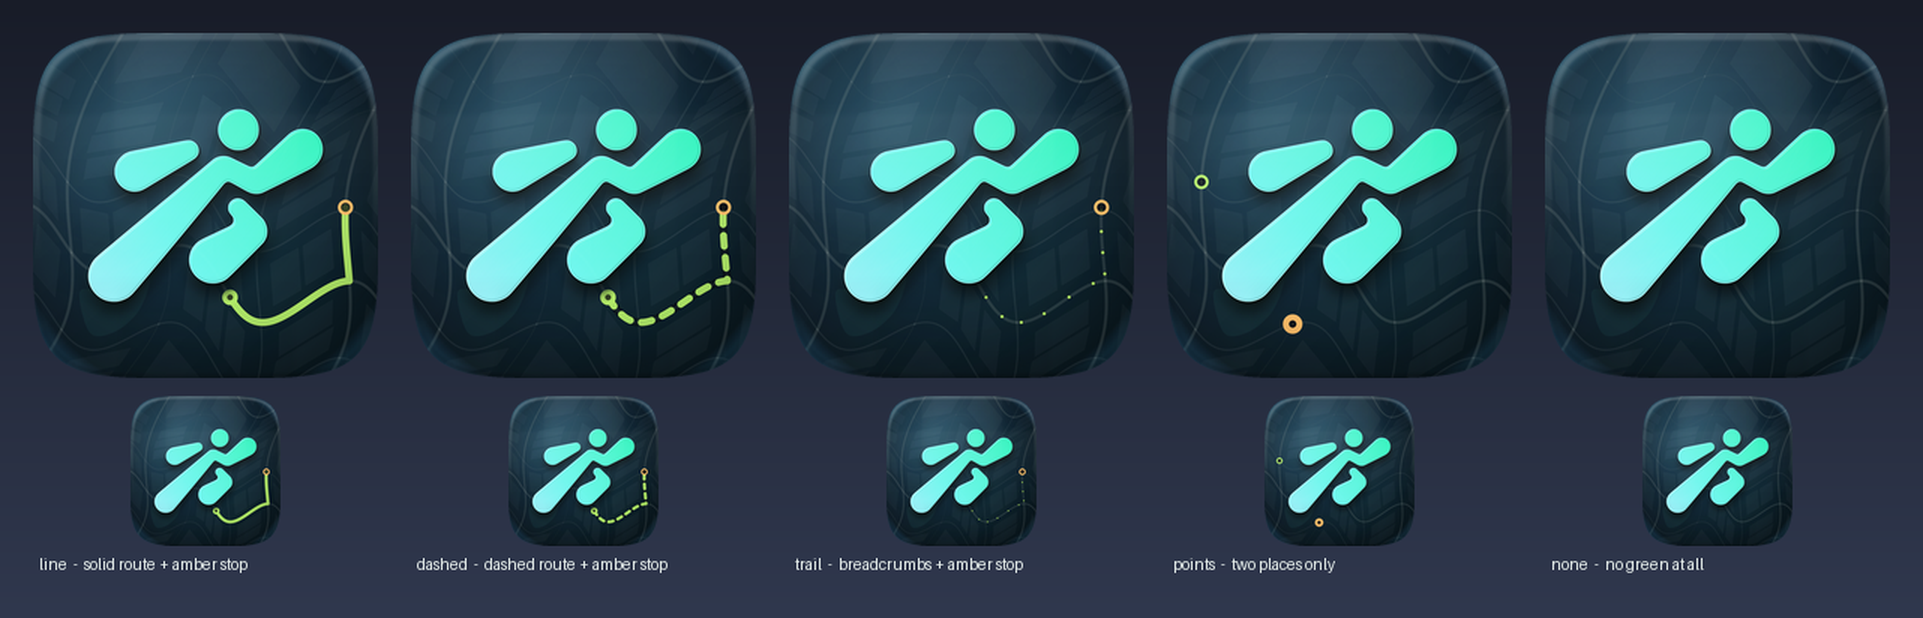
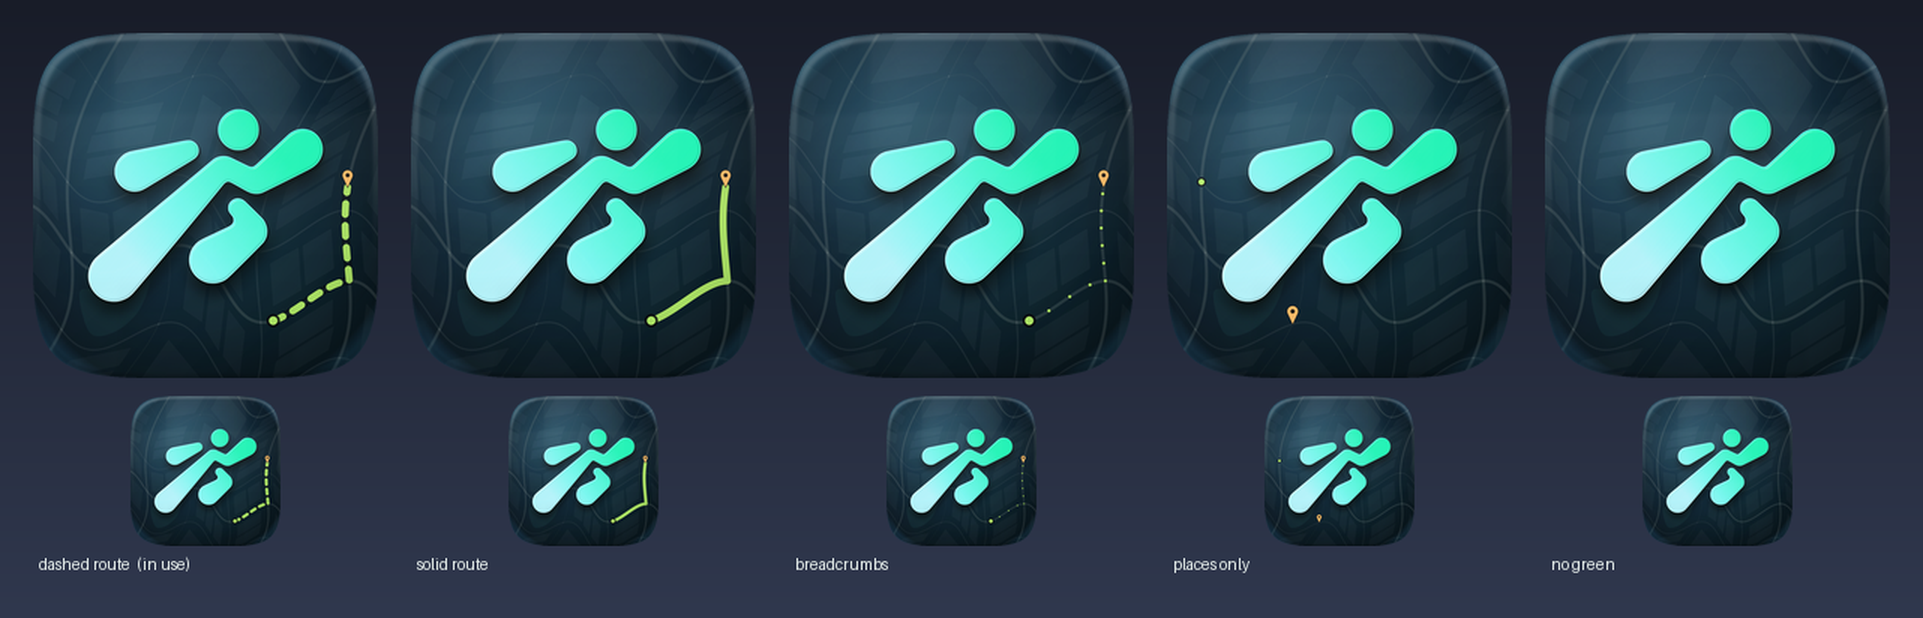
Draw the route's ends the way a map does
The start and the destination were both hollow rings, which reads as two
anonymous markers rather than a journey. Now the start is a solid disc in a
dark collar and the destination is a pin whose point sits on the place, with
its sides computed as the true tangents from the tip to the head so they meet
the circle smoothly at any size.

Markers moved into icon space. Drawn in map space they inherited the map's
rotation, and a leaning pin reads as a mistake.

The route is also shorter, so both ends clear the mark. The start used to sit
underneath the figure, where the clearance mask hid it and the path appeared
to begin from nowhere.

diff --git a/Tools/IconForge/Sources/IconForgeCore/CityMap.swift b/Tools/IconForge/Sources/IconForgeCore/CityMap.swift
@@ -194,7 +194,7 @@ public enum CityMap {
             .translatedBy(x: -span / 2, y: -span / 2)
         // Kept outside the mark's bounding box. A bright green line running alongside the mark
         // collapses the contrast at that edge, which is the one thing the icon cannot afford.
-        let corner = CGPoint(x: size * 0.80, y: size * 0.185).applying(placement.inverted())
+        let corner = CGPoint(x: size * 0.775, y: size * 0.20).applying(placement.inverted())
         func nearest(_ values: [Double], to target: Double) -> Double {
             values.min { abs($0 - target) < abs($1 - target) } ?? target
         }
@@ -202,7 +202,9 @@ public enum CityMap {
         let routeColumn = nearest(columns, to: corner.x)
 
         var route: [CGPoint] = []
-        let approach = span * 0.20, departure = span * 0.13
+        // Short enough that both ends stay clear of the mark: an origin dot hidden under the
+        // figure is worse than no origin dot, because the route then just fades in from nowhere.
+        let approach = span * 0.115, departure = span * 0.165
         var u = routeColumn - approach
         while u <= routeColumn { route.append(warp(CGPoint(x: u, y: routeRow))); u += span * 0.006 }
         var v = routeRow
@@ -279,33 +281,44 @@ public enum CityMap {
     /// green stop can end up touching the mark's outline, which collapses the contrast right there
     /// and makes the two shapes bleed into each other. Clipping is also the truthful thing: the
     /// mark sits above the map, so the route should pass under it.
+    /// A map pin: a round head with its sides drawn down to a point, and the point is the place.
+    ///
+    /// The tangent from the tip to the head is computed rather than faked with a triangle, so the
+    /// sides meet the circle smoothly at any size.
+    static func pinPath(tip: CGPoint, radius: Double) -> CGPath {
+        let reach = radius * 2.35                                  // tip to the centre of the head
+        let head = CGPoint(x: tip.x, y: tip.y + reach)             // icon space: y grows upward
+        let theta = acos(min(1, radius / reach))                   // tip-to-centre line to tangent
+        let left = atan2(-cos(theta), -sin(theta))
+        let right = atan2(-cos(theta), sin(theta))
+
+        let path = CGMutablePath()
+        path.move(to: tip)
+        path.addLine(to: CGPoint(x: head.x + radius * cos(left), y: head.y + radius * sin(left)))
+        // Clockwise from the left tangent takes the long way round, over the top of the head.
+        path.addArc(center: head, radius: radius, startAngle: left, endAngle: right, clockwise: true)
+        path.addLine(to: tip)
+        path.closeSubpath()
+        return path
+    }
+
     public static func drawRoute(_ plan: CityPlan, in ctx: CGContext, palette: Palette,
                                  scale: Double, ink: Ink = Ink(), clearance: CGImage? = nil) {
         guard ink.route > 0, ink.style != .none else { return }
-        ctx.saveGState()
-        if let clearance {
-            ctx.clip(to: CGRect(x: 0, y: 0, width: ctx.width, height: ctx.height), mask: clearance)
+        let bounds = CGRect(x: 0, y: 0, width: Double(ctx.width), height: Double(ctx.height))
+        let canvas = bounds.insetBy(dx: 22 * scale, dy: 22 * scale)
+
+        func applyClip(_ context: CGContext) {
+            if let clearance { context.clip(to: bounds, mask: clearance) }
         }
-        let canvas = CGRect(x: 0, y: 0, width: Double(ctx.width), height: Double(ctx.height))
-            .insetBy(dx: 22 * scale, dy: 22 * scale)
+
+        // MARK: the path itself, drawn in the map's own space so it follows the streets
+
+        ctx.saveGState()
+        applyClip(ctx)
         ctx.concatenate(plan.transform)
         ctx.setLineCap(.round)
         ctx.setLineJoin(.round)
-
-        func visible(_ point: CGPoint) -> Bool { canvas.contains(point.applying(plan.transform)) }
-
-        /// A ring rather than a blob, so a marker reads as a place and not a dot of colour.
-        func marker(at point: CGPoint, radius: Double, colour: Swatch, filled: Bool) {
-            guard visible(point) else { return }
-            let r = radius * scale
-            ctx.addEllipse(in: CGRect(x: point.x - r, y: point.y - r, width: r * 2, height: r * 2))
-            ctx.setFillColor(palette.void.cg(0.75 * ink.intensity))
-            ctx.fillPath()
-            ctx.addEllipse(in: CGRect(x: point.x - r, y: point.y - r, width: r * 2, height: r * 2))
-            ctx.setStrokeColor(colour.cg(min(1, ink.route * 1.5) * ink.intensity))
-            ctx.setLineWidth(r * (filled ? 0.9 : 0.52))
-            ctx.strokePath()
-        }
 
         func stroke(_ points: [CGPoint], colour: Swatch, width: Double, dashed: Bool = false) {
             ctx.addPath(Geometry.path(points))
@@ -321,44 +334,15 @@ public enum CityMap {
             ctx.setLineDash(phase: 0, lengths: [])
         }
 
-        /// Junctions out toward the edges, where the mark is not.
-        func outerJunctions(_ wanted: Int) -> [CGPoint] {
-            let centre = CGPoint(x: Double(ctx.width) / 2, y: Double(ctx.height) / 2)
-            let reach = Double(ctx.width)
-            let candidates = plan.junctions.filter { point in
-                let p = point.applying(plan.transform)
-                guard canvas.contains(p) else { return false }
-                let d = ((p.x - centre.x) * (p.x - centre.x) + (p.y - centre.y) * (p.y - centre.y)).squareRoot()
-                return d > reach * 0.30 && d < reach * 0.46
-            }
-            guard candidates.count > wanted else { return candidates }
-            // Spread across the list rather than taking the first few, which would cluster.
-            let step = candidates.count / wanted
-            return (0..<wanted).map { candidates[$0 * step] }
-        }
-
         switch ink.style {
         case .line, .dashed:
             stroke(plan.route, colour: palette.aurora, width: ink.routeWidth, dashed: ink.style == .dashed)
-            marker(at: plan.routeStops[0], radius: 16, colour: palette.aurora, filled: true)
-            // The far end in Amber: the one point on the map worth a glance.
-            marker(at: plan.routeStops[2], radius: 18, colour: palette.amber, filled: false)
-
-        case .points:
-            // Two places, large enough to read: one of yours, one worth a glance.
-            let places = outerJunctions(2)
-            for (index, place) in places.enumerated() {
-                marker(at: place, radius: index == 0 ? 20 : 17,
-                       colour: index == 0 ? palette.amber : palette.aurora, filled: index == 0)
-            }
-
         case .trail:
-            // Breadcrumbs along the same route. Dots survive being shrunk better than a thin line,
-            // because each one stays a shape instead of thinning away to nothing.
+            // Breadcrumbs survive being shrunk better than a thin line: each one stays a shape
+            // instead of thinning away to nothing.
             let spacing = max(1, plan.route.count / 9)
             for index in stride(from: 0, to: plan.route.count, by: spacing) {
                 let point = plan.route[index]
-                guard visible(point) else { continue }
                 let r = 7.0 * scale
                 ctx.addEllipse(in: CGRect(x: point.x - r, y: point.y - r, width: r * 2, height: r * 2))
                 ctx.setFillColor(palette.void.cg(0.6 * ink.intensity))
@@ -369,8 +353,73 @@ public enum CityMap {
                 ctx.setFillColor(palette.aurora.cg(ink.route * ink.intensity))
                 ctx.fillPath()
             }
-            marker(at: plan.routeStops[2], radius: 18, colour: palette.amber, filled: false)
+        case .points, .none:
+            break
+        }
+        ctx.restoreGState()
 
+        // MARK: the ends, drawn in icon space
+        //
+        // A pin has an up. Drawing it in map space would tilt it with the map's rotation, and a
+        // leaning pin reads as a mistake — on a real map the pins stay upright however the map sits.
+
+        ctx.saveGState()
+        applyClip(ctx)
+
+        /// Where you are: a solid disc inside a dark collar, the way every map draws it.
+        func origin(at point: CGPoint, radius: Double) {
+            let r = radius * scale
+            ctx.addEllipse(in: CGRect(x: point.x - r, y: point.y - r, width: r * 2, height: r * 2))
+            ctx.setFillColor(palette.void.cg(0.85 * ink.intensity))
+            ctx.fillPath()
+            let core = r * 0.64
+            ctx.addEllipse(in: CGRect(x: point.x - core, y: point.y - core, width: core * 2, height: core * 2))
+            ctx.setFillColor(palette.aurora.cg(min(1, ink.route * 1.4) * ink.intensity))
+            ctx.fillPath()
+        }
+
+        /// Where you're going: a pin, with its point on the place and a hole through the head.
+        func destination(at point: CGPoint, radius: Double, colour: Swatch) {
+            let r = radius * scale
+            let pin = pinPath(tip: point, radius: r)
+            ctx.addPath(pin)
+            ctx.setStrokeColor(palette.void.cg(0.8 * ink.intensity))
+            ctx.setLineWidth(4 * scale)
+            ctx.setLineJoin(.round)
+            ctx.strokePath()
+            ctx.addPath(pin)
+            ctx.setFillColor(colour.cg(min(1, ink.route * 1.4) * ink.intensity))
+            ctx.fillPath()
+            let hole = r * 0.40
+            let head = CGPoint(x: point.x, y: point.y + r * 2.35)
+            ctx.addEllipse(in: CGRect(x: head.x - hole, y: head.y - hole, width: hole * 2, height: hole * 2))
+            ctx.setFillColor(palette.void.cg(0.9 * ink.intensity))
+            ctx.fillPath()
+        }
+
+        func placed(_ point: CGPoint) -> CGPoint? {
+            let p = point.applying(plan.transform)
+            return canvas.contains(p) ? p : nil
+        }
+
+        switch ink.style {
+        case .line, .dashed, .trail:
+            // Wider than the path itself, or the dot merges into the first dash and the route
+            // looks like it simply starts nowhere.
+            if let from = placed(plan.routeStops[0]) { origin(at: from, radius: 20) }
+            // A pin stands above its point, so it needs headroom the dot does not.
+            if let to = placed(plan.routeStops[2]), to.y < canvas.maxY - 44 * scale {
+                destination(at: to, radius: 15, colour: palette.amber)
+            }
+        case .points:
+            let centre = CGPoint(x: bounds.midX, y: bounds.midY)
+            let reach = Double(ctx.width)
+            let outer = plan.junctions.compactMap(placed).filter { p in
+                let d = ((p.x - centre.x) * (p.x - centre.x) + (p.y - centre.y) * (p.y - centre.y)).squareRoot()
+                return d > reach * 0.30 && d < reach * 0.46 && p.y < canvas.maxY - 44 * scale
+            }
+            if let first = outer.first { destination(at: first, radius: 16, colour: palette.amber) }
+            if outer.count > 1 { origin(at: outer[outer.count / 2], radius: 14) }
         case .none:
             break
         }

diff --git a/SETUP.md b/SETUP.md
@@ -138,8 +138,11 @@ clips the green channel, flattening the whole mark to one tone no matter how the
 The ramp runs *along* the mark's diagonal, not across it — across shades each limb over its width,
 which reads as a tube.
 
-Green in the map is a route with stops, not a glow: `CityMap.drawRoute`. `--route-style` picks how
-it's drawn — `dashed` (the default), `line`, `trail`, `points` or `none` — and the far stop is Amber,
+Green in the map is a route, not a glow: `CityMap.drawRoute`. Its ends follow the convention every
+map app uses — a solid dot inside a dark collar where you start, and an Amber pin whose point sits
+on the destination. The pin's sides are the real tangents from its tip to its head, and the markers
+are drawn in icon space rather than map space so the pin stays upright instead of leaning with the
+map's rotation. `--route-style` picks how the path between them is drawn — `dashed` (the default), `line`, `trail`, `points` or `none` — and the far stop is Amber,
 the one point on the map worth a glance. It's clipped away from the mark (`clearance`), both because
 the mark sits above the map and because a bright stop touching the outline collapses the contrast
 right there, which is how it was found.
